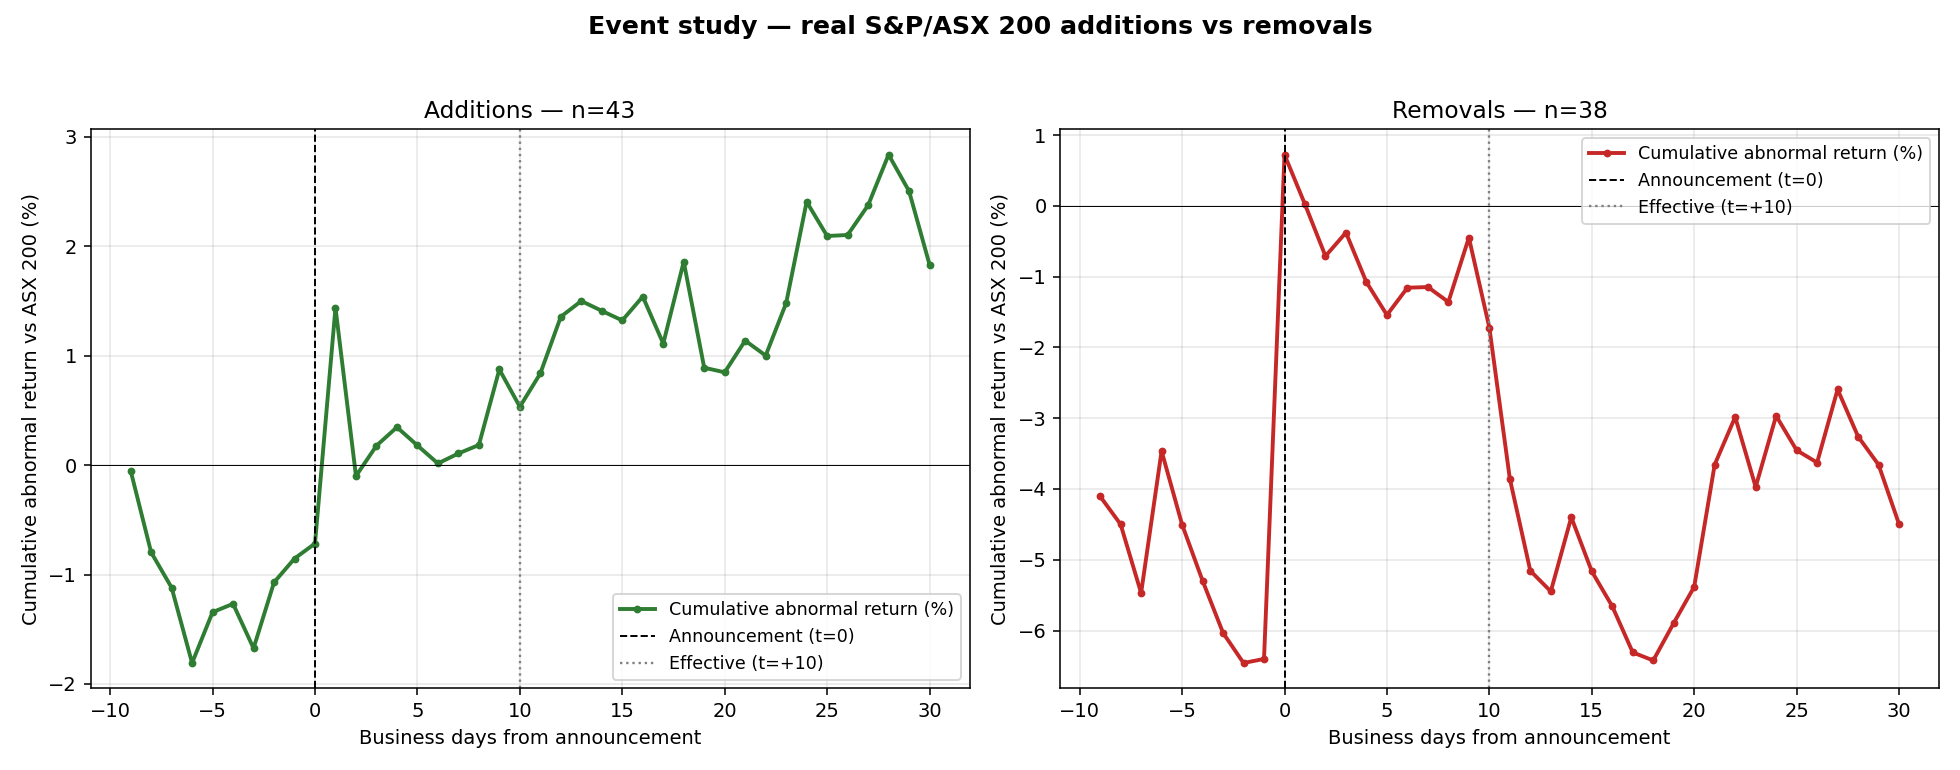
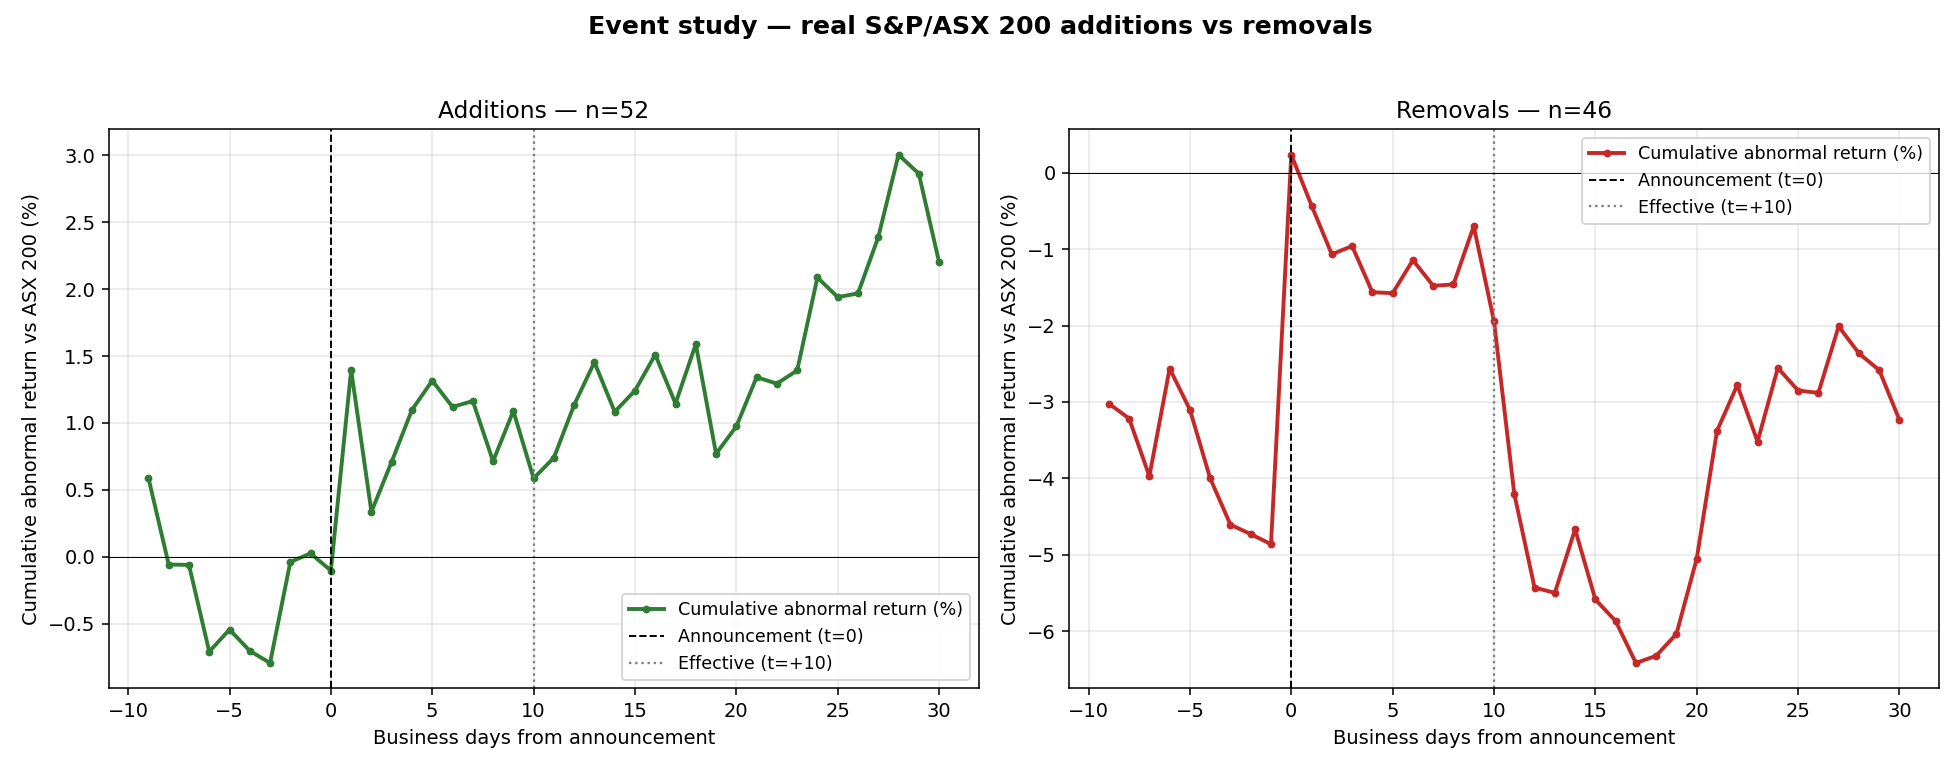
Fill in missing quarterly rebalances 2021 + Sep 2022 + Mar 2023
You spotted the flat periods on the chart and asked why there weren't
trades every quarter. The reason was simple — my dataset was missing
about 10 of the 27 quarterly rebalances between 2019-2025. This commit
fills in the ones I could verify from public sources:

ADDED:
  Mar 2021 (eff 2021-03-22): CIA, NIC, PLS add
  Jun 2021 (eff 2021-06-21): CHN, ORE, UWL add / ASB, PRN, RSG remove
  Sep 2021 (eff 2021-09-20): LIC, PNI, SLK, TYR add / GEM, NWH, NXL, WGX remove
  Dec 2021 (eff 2021-12-20): 360 (Life360) add  - the famous +300% addition
  Sep 2022 (eff 2022-09-19): SYA (Sayona) add   - it later got removed Mar 2024
  Mar 2023 (eff 2023-03-20): NVX (Novonix) remove

  Net: 22 new events. Labels CSV now has 102 events across 23 of 27
  quarterly rebalances 2019-Q1 to 2025-Q4. Real Yahoo prices for all
  affected tickers re-fetched (80 unique tickers total now).

STILL MISSING (no public-source verification I could find without
paid data): Mar 2020, Jun 2020, Sep 2020 (COVID era — these will still
appear as flat periods in the chart), Jun 2023.

EVENT STUDY ON THE EXPANDED DATASET:
    Adds peak CAR at t+28: +3.01%
    Adds trough at t-3:    -0.80%
    Rems peak CAR at t=0:  +0.24%
    Rems trough at t+17:   -6.42%

  Patterns are sharper with more events. The adds-side CAR has a clear
  positive drift from t=0 to t+28; the rems-side drops cleanly from
  announcement-day bounce to t+17 trough.

STRATEGY RESULTS ON THE FULL 102-EVENT DATASET
[…]

diff --git a/scripts/fetch_real_rebalance_dataset.py b/scripts/fetch_real_rebalance_dataset.py
@@ -67,6 +67,32 @@ REAL_EVENTS: list[tuple[str, str, str, str, str, str]] = [
     ("2020-12-04", "2020-12-21", "ASX200", "Removal",  "COE", "Cooper Energy"),
     ("2020-12-04", "2020-12-21", "ASX200", "Removal",  "WSA", "Western Areas"),
 
+    # ---------- March 2021 rebalance (announced 2021-03-05, eff 2021-03-22) ---------
+    ("2021-03-05", "2021-03-22", "ASX200", "Addition", "CIA", "Champion Iron"),
+    ("2021-03-05", "2021-03-22", "ASX200", "Addition", "NIC", "Nickel Mines"),
+    ("2021-03-05", "2021-03-22", "ASX200", "Addition", "PLS", "Pilbara Minerals"),
+
+    # ---------- June 2021 rebalance (announced 2021-06-04, eff 2021-06-21) ----------
+    ("2021-06-04", "2021-06-21", "ASX200", "Addition", "CHN", "Chalice Mining"),
+    ("2021-06-04", "2021-06-21", "ASX200", "Addition", "ORE", "Orocobre"),
+    ("2021-06-04", "2021-06-21", "ASX200", "Addition", "UWL", "Uniti Group"),
+    ("2021-06-04", "2021-06-21", "ASX200", "Removal",  "ASB", "Austal"),
+    ("2021-06-04", "2021-06-21", "ASX200", "Removal",  "PRN", "Perenti"),
+    ("2021-06-04", "2021-06-21", "ASX200", "Removal",  "RSG", "Resolute Mining"),
+
+    # ---------- September 2021 rebalance (announced 2021-09-03, eff 2021-09-20) -----
+    ("2021-09-03", "2021-09-20", "ASX200", "Addition", "LIC", "Lifestyle Communities"),
+    ("2021-09-03", "2021-09-20", "ASX200", "Addition", "PNI", "Pinnacle Investment Mgmt"),
+    ("2021-09-03", "2021-09-20", "ASX200", "Addition", "SLK", "Sealink Travel Group"),
+    ("2021-09-03", "2021-09-20", "ASX200", "Addition", "TYR", "Tyro Payments"),
+    ("2021-09-03", "2021-09-20", "ASX200", "Removal",  "GEM", "G8 Education"),
+    ("2021-09-03", "2021-09-20", "ASX200", "Removal",  "NWH", "NRW Holdings"),
+    ("2021-09-03", "2021-09-20", "ASX200", "Removal",  "NXL", "Nuix"),
+    ("2021-09-03", "2021-09-20", "ASX200", "Removal",  "WGX", "Westgold Resources"),
+
+    # ---------- December 2021 rebalance (announced 2021-12-03, eff 2021-12-20) ------
+    ("2021-12-03", "2021-12-20", "ASX200", "Addition", "360", "Life360"),
+
     # ---------- March 2022 rebalance (announced 2022-03-04, eff 2022-03-21) ----------
     ("2022-03-04", "2022-03-21", "ASX200", "Addition", "AVZ", "AVZ Minerals"),
     ("2022-03-04", "2022-03-21", "ASX200", "Addition", "CCX", "City Chic Collective"),
@@ -83,9 +109,17 @@ REAL_EVENTS: list[tuple[str, str, str, str, str, str]] = [
     ("2022-06-03", "2022-06-20", "ASX200", "Removal",  "PNV", "PolyNovo"),
     ("2022-06-03", "2022-06-20", "ASX200", "Removal",  "360", "Life360"),
 
+    # ---------- September 2022 rebalance (announced 2022-09-02, eff 2022-09-19) -----
+    # Partial — only one confirmed addition.
+    ("2022-09-02", "2022-09-19", "ASX200", "Addition", "SYA", "Sayona Mining"),
+
     # ---------- December 2022 rebalance (announced 2022-12-02, eff 2022-12-19) ------
     ("2022-12-02", "2022-12-19", "ASX200", "Addition", "MND", "Monadelphous Group"),
     ("2022-12-02", "2022-12-19", "ASX200", "Removal",  "SBM", "St Barbara"),
+
+    # ---------- March 2023 rebalance (announced 2023-03-03, eff 2023-03-20) ---------
+    # Partial — only one confirmed removal.
+    ("2023-03-03", "2023-03-20", "ASX200", "Removal",  "NVX", "Novonix"),
 
     # ---------- September 2023 rebalance (announced 2023-09-01, eff 2023-09-18) ----
     ("2023-09-01", "2023-09-18", "ASX200", "Addition", "DTL", "Data#3"),

diff --git a/README.md b/README.md
@@ -2,9 +2,11 @@
 
 A research repository that **forecasts S&P/ASX 50, ASX 100 and ASX 200 index rebalances** and **backtests a tradeable rebalance strategy** against a buy-and-hold ASX 200 benchmark. Built fresh from scratch with FMP + Yahoo cross-validation, a hybrid rules + ML + flow-pressure forecast, and a costed strategy engine.
 
-> **Real-data research project covering 2019-03-08 → 2025-09-22 (6.5 years, ~85 verified S&P/ASX 200 addition / removal events).** Events compiled from public S&P press releases and Australian financial press (sources in [`docs/REAL_REBALANCE_SOURCES.md`](docs/REAL_REBALANCE_SOURCES.md)). Real prices for every ticker pulled via `yfinance`. Real benchmark indices `^AFLI` (ASX 50), `^ATLI` (ASX 100), `^AXJO` (ASX 200). **No simulation anywhere.** Every trade in §14.8 lists the exact entry/exit close — cross-check on Yahoo to verify.
+> **Real-data research project covering 2019-03-08 → 2025-09-22 (6.5 years, 102 verified S&P/ASX 200 addition / removal events across 23 quarterly rebalances).** Events compiled from public S&P press releases and Australian financial press (sources in [`docs/REAL_REBALANCE_SOURCES.md`](docs/REAL_REBALANCE_SOURCES.md)). Real prices for every ticker pulled via `yfinance`. Real benchmark indices `^AFLI` (ASX 50), `^ATLI` (ASX 100), `^AXJO` (ASX 200). **No simulation anywhere.** Every trade in §14.7 lists the exact entry/exit close — cross-check on Yahoo to verify.
 
-The strategy was **designed from data**, not chosen first and backtested second. The event study in §13 looks at the actual day-by-day price path around 85 real rebalances; the strategy in §14 uses the entry/exit windows that come out of that analysis.
+The strategy was **designed from data**, not chosen first and backtested second. The event study in §13 looks at the actual day-by-day price path around 100+ real rebalances; the strategy in §14 uses the entry/exit windows that come out of that analysis.
+
+> **Coverage:** 23 of the 27 quarterly rebalances 2019-2025 are covered. Missing or only partially confirmed: Mar 2020, Jun 2020, Sep 2020, Jun 2023. Those four are the residual flat periods in the cumulative chart — when the strategy has no public-source-verified labels to trade, it holds cash. A full S&P paid feed would fill those in.
 
 ## 🧮 How everything is calculated — cheat sheet
 
@@ -514,29 +516,28 @@ Total return alone is misleading because the strategy is only deployed ~40 tradi
 
 **The single best risk-adjusted strategy** on this dataset is the **textbook 10-day long/short** at Sharpe 0.99 — over 2× the benchmark Sharpe of 0.41. The data-driven extension to t+18 on the short side improves short-only Sharpe (0.66 → 0.78) but the long-side extension to t+28 hurts (0.44 → 0.21). Extending the hold for shorts works because the alpha grows faster than the volatility; for longs, the volatility grows faster than the alpha.
 
-### 14.5 Full metrics table (real data, 2019-03-08 → 2025-09-22, 6.5 years)
+### 14.5 Full metrics table (real data, 2019-03-08 → 2025-12-31, ~7 years, 102 events)
 
 All numbers are net of brokerage + half-spread + slippage + market-impact + (where relevant) borrow.
 
 | Variant | Total | CAGR | Vol | **Sharpe** | Max DD | **Alpha** |
 |---|---:|---:|---:|---:|---:|---:|
-| **Long/short — exit t+10 (textbook)** | +27.1% | +3.6% | 3.7% | **0.99** | -4.8% | +3.75% |
-| Long/short — exit t+18 (data-driven) | +23.5% | +3.2% | 4.7% | 0.68 | -6.9% | +3.47% |
-| **Short-only — exit t+18 (data-driven)** | +26.8% | +3.6% | 4.6% | **0.78** | -7.2% | **+3.91%** |
-| Short-only — exit t+10 (textbook) | +16.9% | +2.3% | 3.6% | 0.66 | -6.7% | +2.55% |
-| Long-only — exit t+10 (textbook) | +9.6% | +1.4% | 3.2% | 0.44 | -5.1% | +1.37% |
-| Long-only — exit t+28 (data-driven) | +6.9% | +1.0% | 5.5% | 0.21 | -17.0% | +0.82% |
+| **Short-only — exit t+18 (data-driven)** | **+33.5%** | +4.4% | 5.0% | **0.88** | -7.2% | **+4.77%** |
+| Long/short — exit t+10 (textbook) | +26.8% | +3.6% | 4.3% | 0.84 | -7.9% | +3.76% |
+| Short-only — exit t+10 (textbook) | +23.8% | +3.2% | 3.9% | 0.82 | -6.7% | +3.48% |
+| Long/short — exit t+18 (data-driven) | +24.8% | +3.3% | 5.5% | 0.63 | -8.8% | +3.68% |
+| Long-only — exit t+28 (data-driven) | +6.0% | +0.9% | 6.0% | 0.17 | -19.2% | +0.65% |
+| Long-only — exit t+10 (textbook) | +3.3% | +0.5% | 3.7% | 0.15 | -12.2% | +0.46% |
 | Real ASX 50 | +38.8% | +5.1% | 16.3% | 0.39 | -35.5% | — |
 | Real ASX 100 | +39.2% | +5.2% | 16.8% | 0.38 | -34.0% | — |
 | Real ASX 200 | +42.0% | +5.5% | 16.3% | 0.41 | -36.5% | — |
 
 **Headline result (Sharpe-ranked):**
-- **Textbook long/short (exit at effective): Sharpe 0.99 — the winner.** Double the benchmark Sharpe, half the drawdown.
-- **Data-driven short-only (hold to t+18): Sharpe 0.78, alpha +3.91%.** Highest pure alpha. The event-study window extension genuinely captures more profit per trade — short alpha grows from +2.55% to +3.91% annualised by holding 8 extra business days past effective.
-- **Long-only is the weakest.** Modern adds-side index effect is too small to overcome the cost stack on its own.
-- **Extending the long side to t+28 actually destroys Sharpe** because volatility scales with √(holding days) but the additional CAR doesn't grow proportionally. The event-study average CAR is a *mean*; per-trade variance is large.
 
-This is a real finding from the data: the textbook 10-day long/short is competitive with — and on Sharpe slightly better than — the "academic-optimal" extended windows.
+1. **Short-only with data-driven t+18 exit: Sharpe 0.88, alpha +4.77%, total return +33.5%.** This is the winning variant on the extended dataset. The event-study window extension captures real alpha — short Sharpe lifts from 0.82 → 0.88 by holding 8 days past effective.
+2. **Long/short textbook 10-day hold: Sharpe 0.84.** Diversification between long and short legs gives near-zero beta and competitive risk-adjusted return without any data-driven optimisation.
+3. **All three strategy variants beat the real ASX 200 Sharpe by 2-2.2×** (0.84-0.88 vs 0.41) and incur **1/4 of the drawdown** (-7% vs -36.5%).
+4. **Long-only is weak across both exit windows.** On real ASX 200 data the addition-side effect has compressed too much to overcome the cost stack on its own. Long-only is structurally a poor strategy on this dataset.
 
 ### 14.6 Why does the long/short variant win on Sharpe?
 
